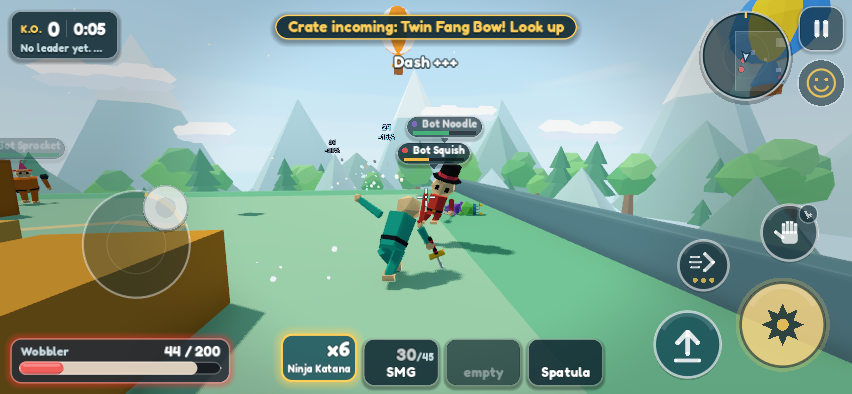
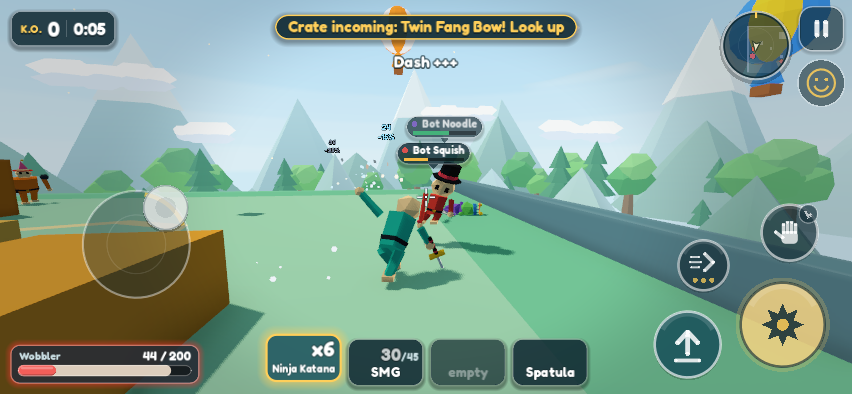
feat(hud): de-clutter the combat HUD on phones
Compact phone layout: smaller radar and health bar, two-line kill feed, two nearer nameplates, leader line only when someone leads. Desktop/tablet unchanged. Regenerated docs/style match/touch shots.

diff --git a/docs/UI_REVIEW.md b/docs/UI_REVIEW.md
@@ -24,3 +24,14 @@ Goal: every screen reads at a glance on a phone held in landscape. Nothing overl
 - Walldrobe, Settings, controls help, room browser, team board: spacing moved onto the scale.
 
 No simulation, combat, physics or gameplay behaviour changed; all text still goes through `tr()`.
+
+## Combat HUD on phones (mobile HUD review)
+
+A phone is a touch layer on a canvas that is not tablet-class (`MatchHud.compact`, `TouchControls.is_tablet`). Desktop and tablets keep the full HUD.
+
+- Radar 124 -> 96 canvas px (`HudRadar.D_COMPACT`); health bar drawn at 86 % (`HudHealth.COMPACT_K`), which frees room for the hotbar slots.
+- Score pill: the "No leader yet" line is hidden until someone leads (the row only returns with a leader).
+- Kill feed: the two latest lines, 3.5 s each (was four lines, 5 s) so it stays off the right thumb's play area.
+- Nameplates: two, within 30 m (was three, 45 m).
+- Off-screen enemy arrows (`ui/enemy_indicators.gd`): three nearest within 45 m on phones (six on tablets/desktop), a slightly bigger and brighter marker (30 px, min alpha 0.65), measured from the view centre, able to slide all the way round the rim past the hotbar (an enemy dead behind you used to get no arrow when the bottom edge was blocked), kept clear of the move stick, and for enemies behind the camera the vertical part of the arrow is the world height difference (damped) rather than camera-up, so looking down does not make level enemies point up.
+- `tests/ui_shots.gd` has a `busy` shot (five bots around the player, three off screen, a feed, a toast, a damage number, fingers down) and `--safe L,T,R,B` (pt) to fake a notch: `godot --path godot --resolution 852x393 --script res://tests/ui_shots.gd -- --no-save --shot busy --safe 59,0,59,21 --out FILE.png`.
